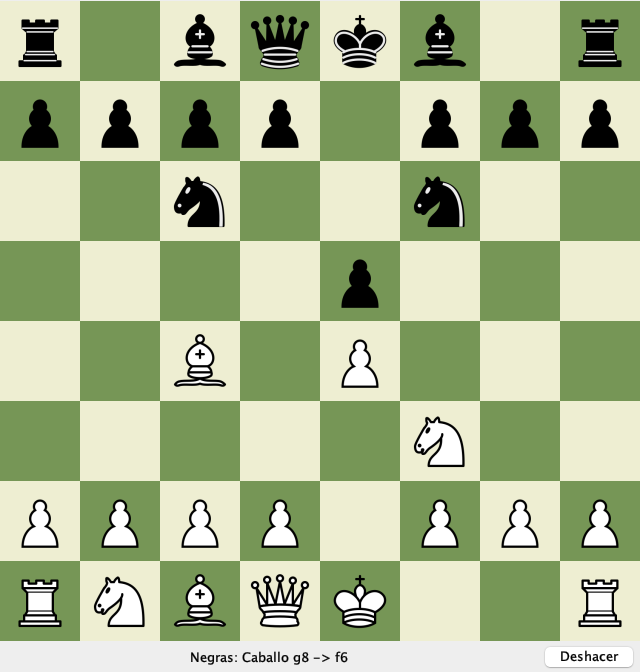
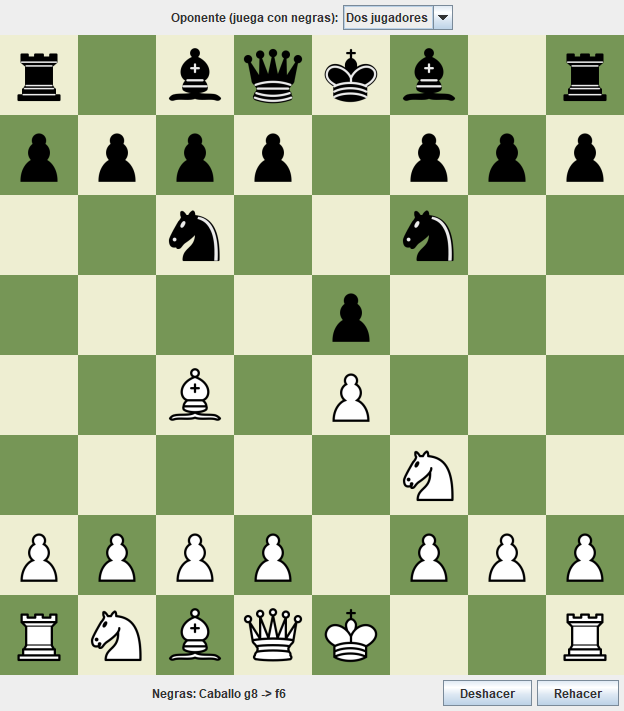
captura nueva de la ventana

diff --git a/scripts/Capture.java b/scripts/Capture.java
@@ -1,0 +1,69 @@
+import adaptadores.SwingChessView;
+import nucleo.Board;
+import nucleo.BoardSetup;
+import nucleo.ChessGame;
+import nucleo.IChessGame;
+import nucleo.IDrawRule;
+import nucleo.ISpecialMove;
+import nucleo.PieceFactory;
+import nucleo.Position;
+import nucleo.especiales.CastlingMove;
+import nucleo.especiales.EnPassantMove;
+import nucleo.especiales.PromotionMove;
+import puertos.IGameStatusListener;
+import puertos.IMoveListener;
+
+import javax.imageio.ImageIO;
+import javax.swing.JRootPane;
+import java.awt.Component;
+import java.awt.Container;
+import java.awt.Graphics2D;
+import java.awt.image.BufferedImage;
+import java.io.File;
+import java.util.ArrayList;
+import java.util.Arrays;
+import java.util.Collections;
+import java.util.List;
+
+// Dibuja la ventana real fuera de pantalla, con una partida a medias, y la guarda como PNG.
+// Uso (desde la raíz del repo): java --class-path out scripts/Capture.java docs/captura.png
+public class Capture {
+    public static void main(String[] args) throws Exception {
+        PieceFactory pieces = PieceFactory.standard();
+        Board board = BoardSetup.standard(pieces);
+        SwingChessView view = new SwingChessView(board.getRows(), board.getColumns());
+        List<ISpecialMove> specialMoves = Arrays.<ISpecialMove>asList(
+            new CastlingMove(), new EnPassantMove(), new PromotionMove(pieces, view));
+        IChessGame game = new ChessGame(board,
+            Collections.<IMoveListener>singletonList(view),
+            Collections.<IGameStatusListener>singletonList(view),
+            specialMoves,
+            new ArrayList<IDrawRule>());
+        view.attachGame(game);
+
+        String[][] moves = {{"e2", "e4"}, {"e7", "e5"}, {"g1", "f3"}, {"b8", "c6"}, {"f1", "c4"}, {"g8", "f6"}};
+        for (String[] move : moves) {
+            game.tryMove(Position.fromAlgebraic(move[0]), Position.fromAlgebraic(move[1]));
+        }
+        view.render(board);
+
+        view.addNotify();
+        view.setSize(640, 750);
+        view.validate();
+        layout(view.getRootPane());
+        JRootPane root = view.getRootPane();
+        BufferedImage image = new BufferedImage(root.getWidth(), root.getHeight(), BufferedImage.TYPE_INT_RGB);
+        Graphics2D graphics = image.createGraphics();
+        root.printAll(graphics);
+        graphics.dispose();
+        ImageIO.write(image, "png", new File(args[0]));
+        System.exit(0);
+    }
+
+    private static void layout(Component component) {
+        if (component instanceof Container) {
+            ((Container) component).doLayout();
+            for (Component child : ((Container) component).getComponents()) layout(child);
+        }
+    }
+}
